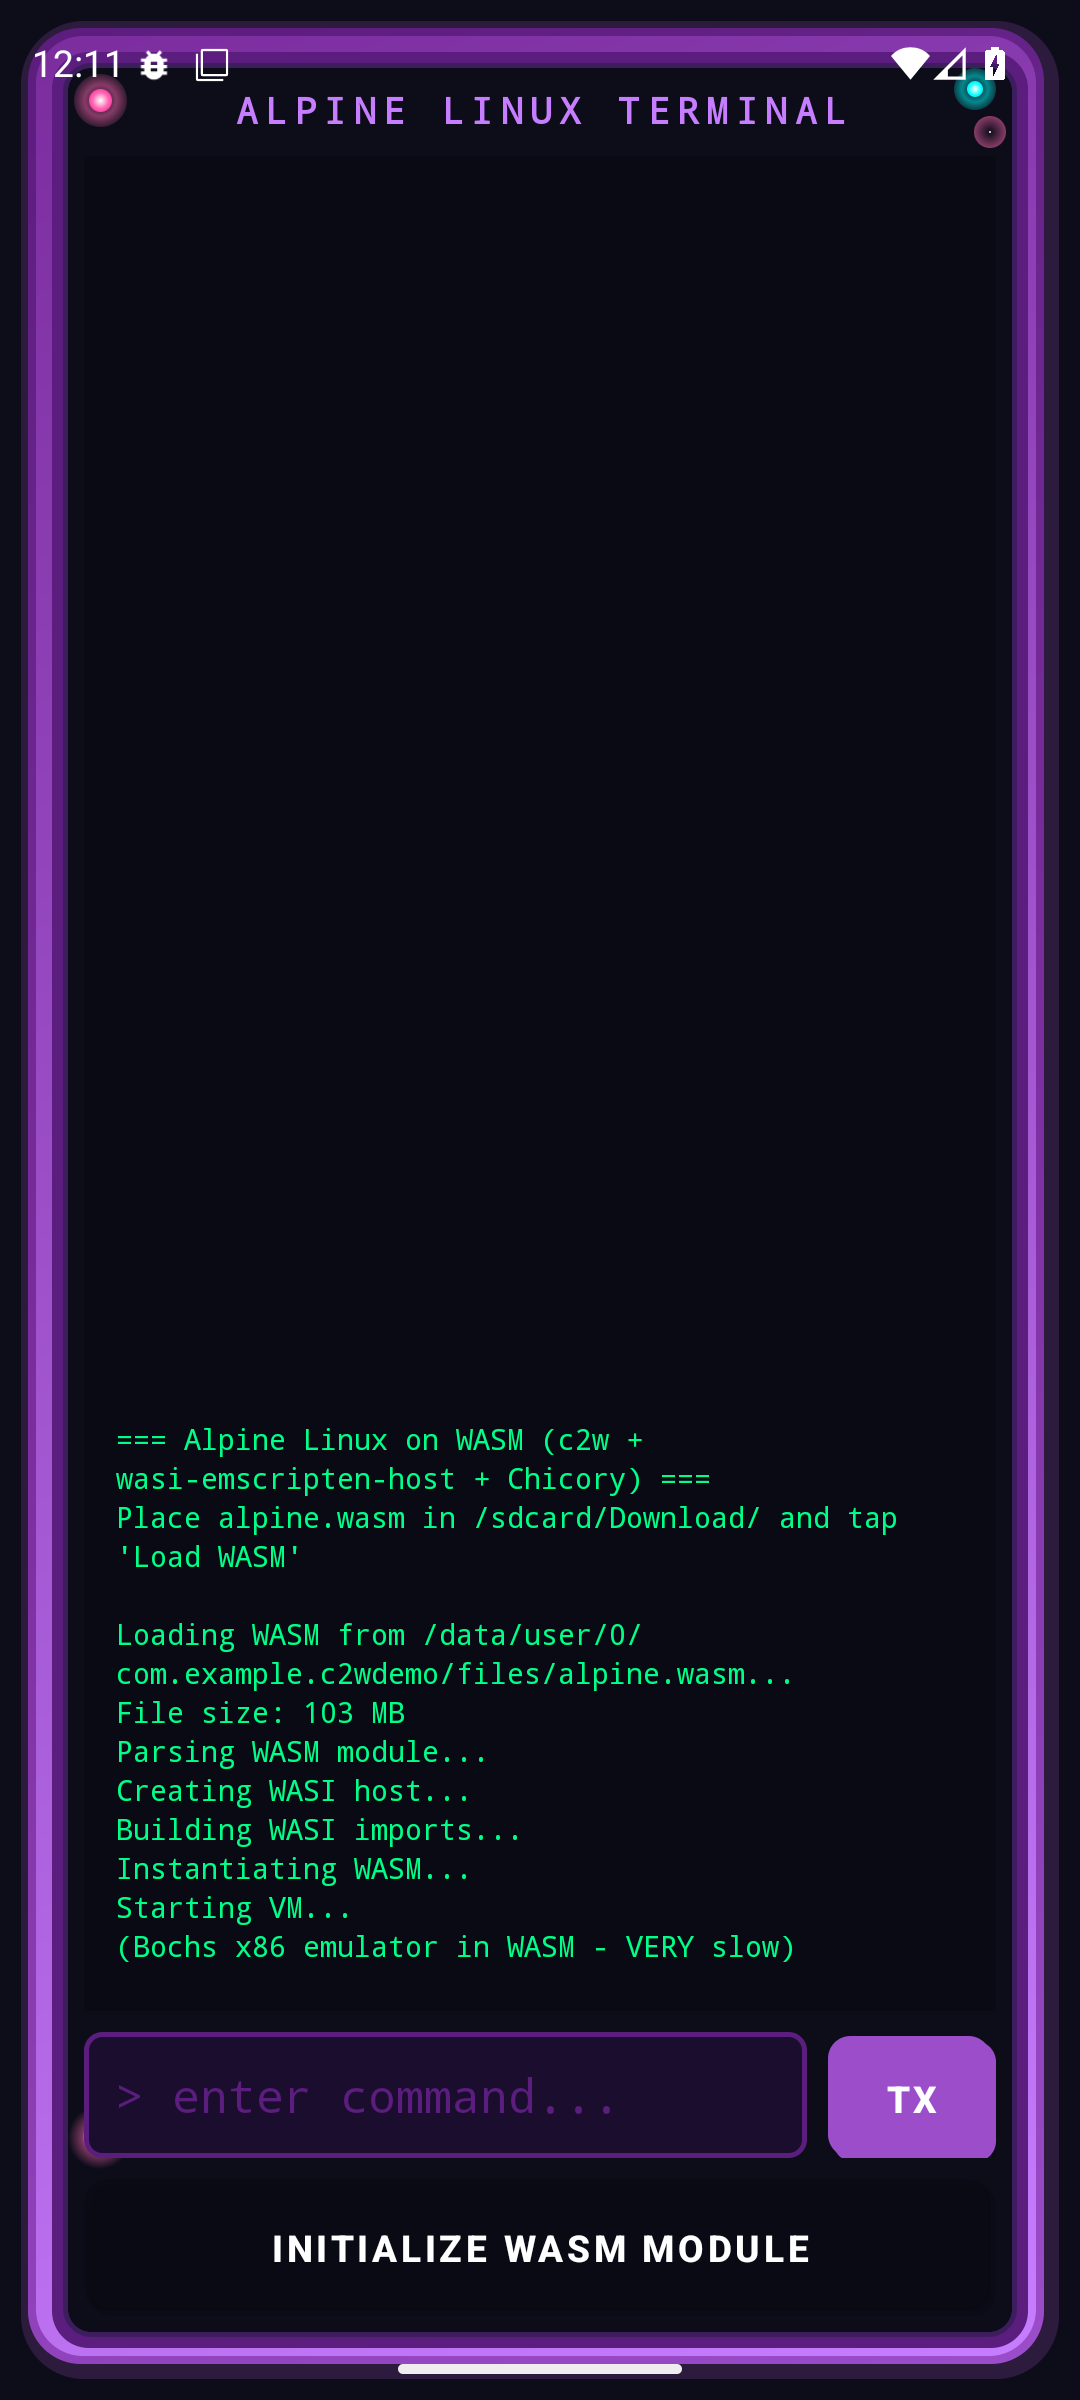
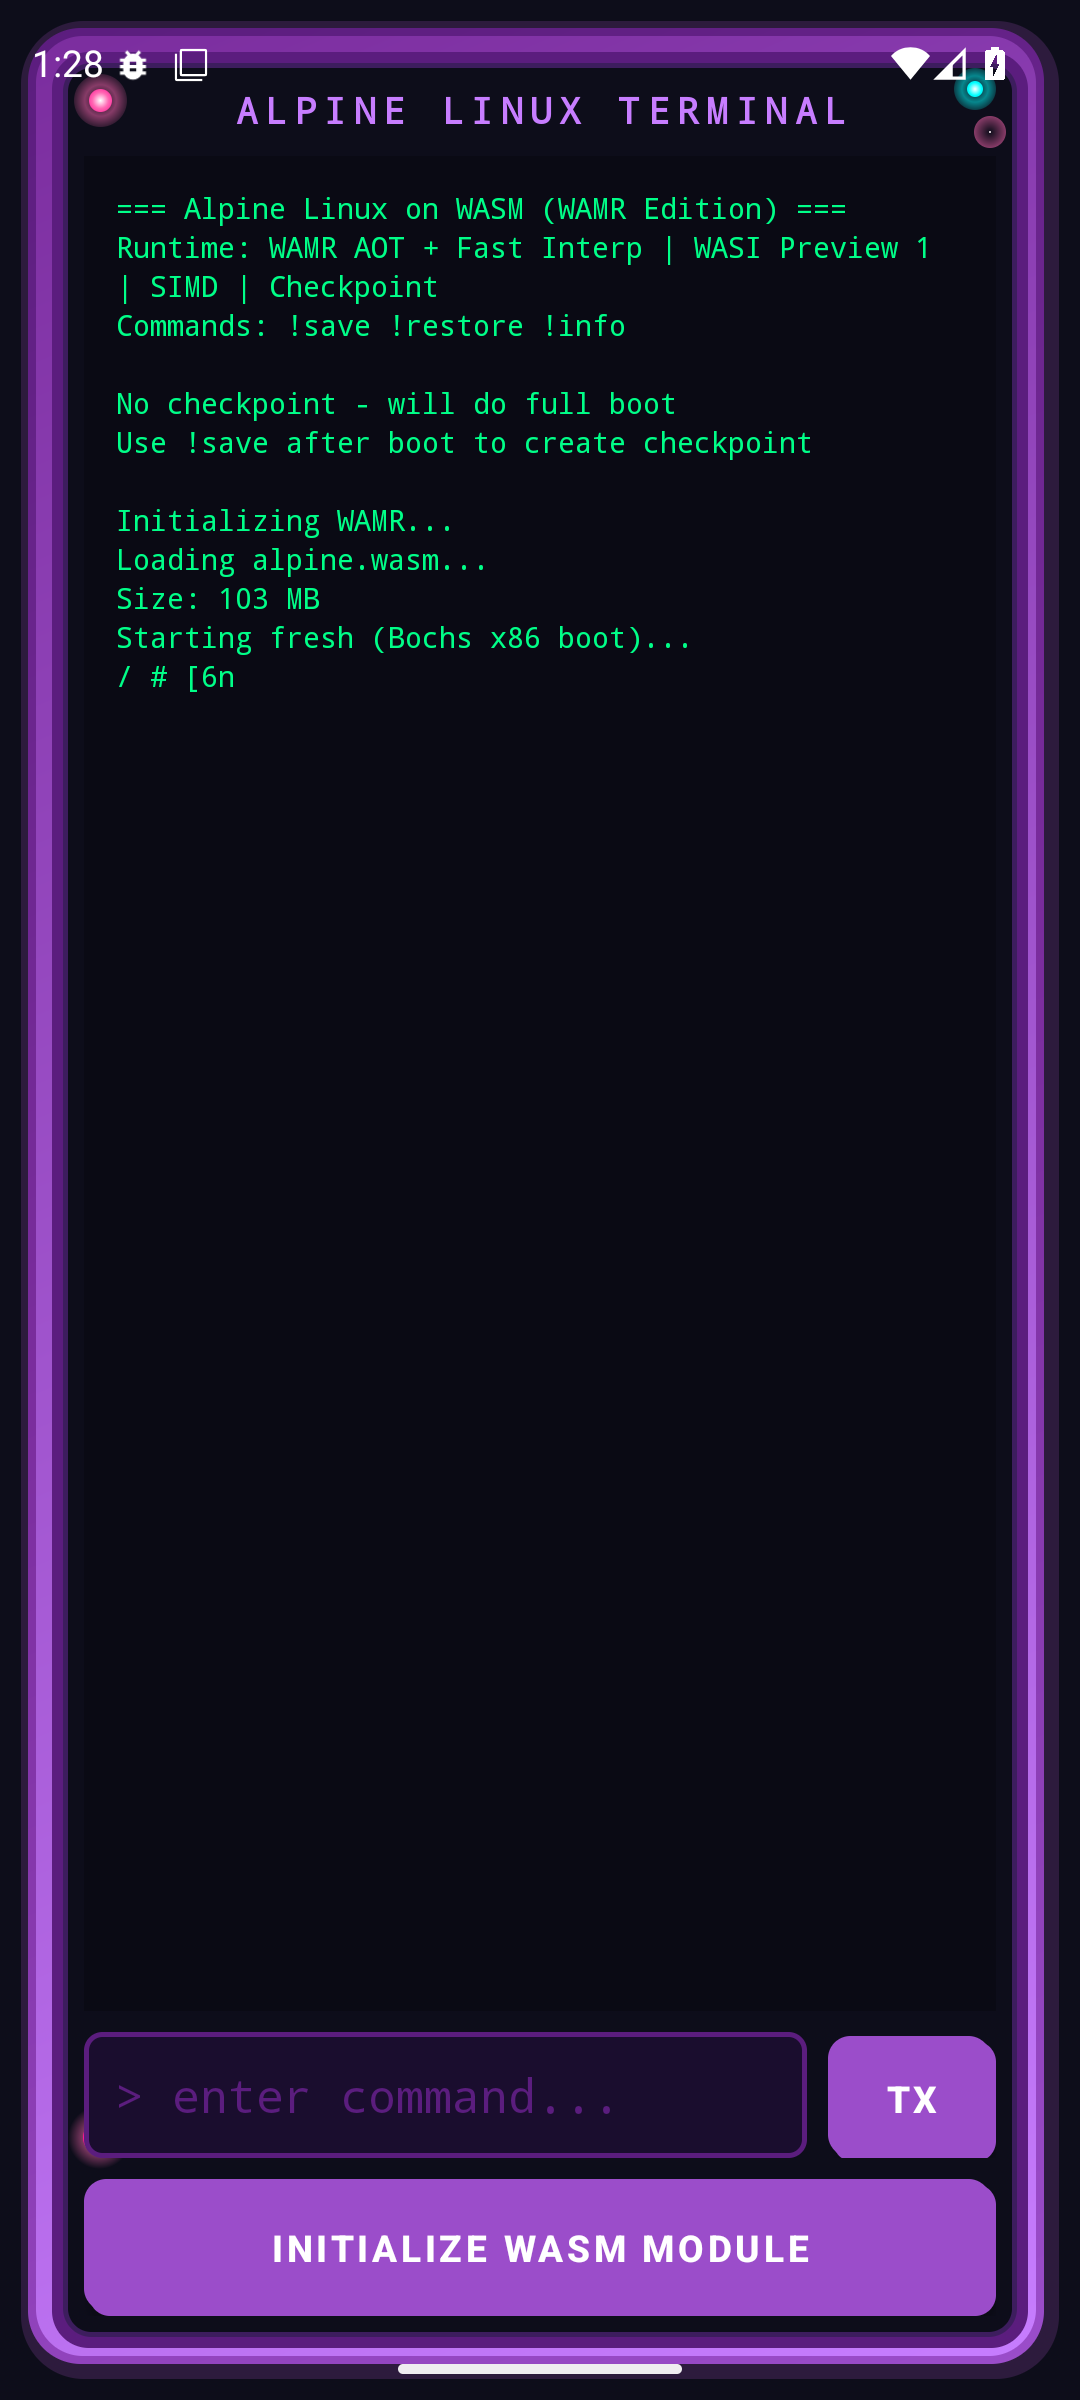
Fix WAMR signal handling and update screenshots
Fixes:
- Disable WAMR hardware bound checking (was causing "thread signal env
  not inited" error on some platforms)
- Remove problematic preopened directory "/" (doesn't exist in Android sandbox)
- Use null preopened directories since c2w doesn't need host filesystem

Screenshots:
- Updated to show WAMR Edition app with new branding
- Shows VM booting to Alpine shell prompt

Tested on Android emulator API 36 (x86_64 with ARM translation)

diff --git a/android-app-wamr/app/src/main/kotlin/com/example/c2wdemo/MainActivity.kt b/android-app-wamr/app/src/main/kotlin/com/example/c2wdemo/MainActivity.kt
@@ -144,6 +144,8 @@ class MainActivity : AppCompatActivity() {
             }
 
             // Load AOT (pre-compiled) or WASM from assets
+            // AOT = pre-compiled native code, much faster but requires matching architecture
+            // Set to false for x86_64 emulators, true for ARM64 devices
             val useAot = true
             val assetName = if (useAot) "alpine.aot" else "alpine.wasm"
 

diff --git a/android-app-wamr/app/src/main/cpp/c2w_runtime.cpp b/android-app-wamr/app/src/main/cpp/c2w_runtime.cpp
@@ -485,14 +485,15 @@ Java_com_example_c2wdemo_WamrRuntime_nativeStart(
     g_equal_count = 0;
 
     // Configure WASI
-    const char* dir_list[] = { "/", "." };
-    uint32_t dir_count = 2;
+    // Note: c2w/Bochs runs entirely in memory - no host filesystem needed
+    // We only need stdin/stdout via pipes
     const char* env_list[] = { nullptr };  // Empty env for c2w
 
     // Set WASI args with our custom file descriptors
+    // Pass NULL for directories since c2w doesn't need filesystem access
     wasm_runtime_set_wasi_args_ex(
         g_wasm_module,
-        dir_list, dir_count,     // Preopened directories
+        nullptr, 0,              // No preopened directories
         nullptr, 0,              // Map dirs
         env_list, 0,             // Environment
         nullptr, 0,              // Args
@@ -749,13 +750,12 @@ Java_com_example_c2wdemo_WamrRuntime_nativeStartWithRestore(
     g_checkpoint_ready = false;
 
     // Configure WASI
-    const char* dir_list[] = { "/", "." };
-    uint32_t dir_count = 2;
+    // Note: c2w/Bochs runs entirely in memory - no host filesystem needed
     const char* env_list[] = { nullptr };
 
     wasm_runtime_set_wasi_args_ex(
         g_wasm_module,
-        dir_list, dir_count,
+        nullptr, 0,              // No preopened directories
         nullptr, 0,
         env_list, 0,
         nullptr, 0,
